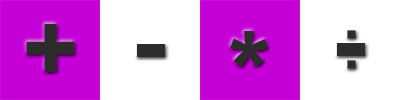
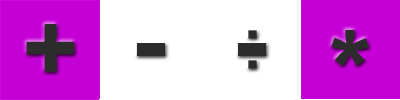
com as sprites do chico

diff --git a/src/graphics/gameFrame/NumbersPanel.java b/src/graphics/gameFrame/NumbersPanel.java
@@ -36,7 +36,7 @@ public class NumbersPanel extends JPanel {
 
         for (int j = 0; j < 2; j++) {
             for (int i = 0; i < 2; i++) {
-                addSquare(REC_WIDTH, REC_WIDTH, this.challenges.get(i * 2 + j));
+                addSquare(REC_WIDTH, REC_WIDTH, this.challenges.get(i * 2 + j), i * 2 + j);
             }
         }
 
@@ -102,17 +102,22 @@ public class NumbersPanel extends JPanel {
         return game;
     }
 
-    public void addSquare(int width, int height, int number) {
+    public void addSquare(int width, int height, int number, int position) {
         BufferedImage rect;
+        BufferedImage whiteRect;
         int posX = number % 5;
         int posY = number / 5;
         try {
             rect = ImageIO.read(new File(System.getProperty("user.dir") + "/resources/images/all.png"));
+            whiteRect = ImageIO.read(new File(System.getProperty("user.dir") + "/resources/images/allwhite.png"));
             BufferedImage resizedImage = new BufferedImage(width, height, BufferedImage.TYPE_INT_ARGB);
             Graphics2D g = resizedImage.createGraphics();
             int h = rect.getHeight() / 2;
             int w = rect.getWidth() / 5;
-            g.drawImage(rect.getSubimage(posX * w, posY * h, w, h), 0, 0, width, height, null);
+            if(position == 1 || position == 2)
+                g.drawImage(rect.getSubimage(posX * w, posY * h, w, h), 0, 0, width, height, null);
+            else
+                g.drawImage(whiteRect.getSubimage(posX * w, posY * h, w, h), 0, 0, width, height, null);
             g.dispose();
             squares.add(resizedImage);
         } catch (IOException e) {

diff --git a/src/graphics/gameFrame/OperationsPanel.java b/src/graphics/gameFrame/OperationsPanel.java
@@ -40,7 +40,7 @@ class OperationsPanel extends JPanel {
 
         for (int j = 0; j < 2; j++) {
             for (int i = 0; i < 2; i++) {
-                addSquare(REC_WIDTH, REC_WIDTH, i * 2 + j, i, j);
+                addSquare(REC_WIDTH, REC_WIDTH, i * 2 + j, i, j, i * 2 + j);
             }
         }
 
@@ -48,17 +48,17 @@ class OperationsPanel extends JPanel {
 
     }
 
-    public void addSquare(int width, int height, int number, int i, int j) {
+    public void addSquare(int width, int height, int number, int i, int j, int position) {
         BufferedImage rect;
         int posX = number % 4;
         int posY = number / 4;
         try {
-            rect = ImageIO.read(new File(System.getProperty("user.dir") + "/resources/images/operationsW.png"));
+            rect = ImageIO.read(new File(System.getProperty("user.dir") + "/resources/images/operators.png"));
             BufferedImage resizedImage = new BufferedImage(width, height, BufferedImage.TYPE_INT_ARGB);
             Graphics2D g = resizedImage.createGraphics();
             int h = rect.getHeight() / 1;
             int w = rect.getWidth() / 4;
-            g.drawImage(rect.getSubimage(posX * w, posY * h, w, h), 0, 0, width, height, null);
+                g.drawImage(rect.getSubimage(posX * w, posY * h, w, h), 0, 0, width, height, null);
             g.dispose();
             squares.add(resizedImage);
         } catch (IOException e) {

diff --git a/src/game/Game24.java b/src/game/Game24.java
@@ -151,7 +151,7 @@ public class Game24 {
                         this.equation += newStr + input;
                         this.currentState = 3;
                     }
-                } 
+                }
                 break;
             default:
                 break;
